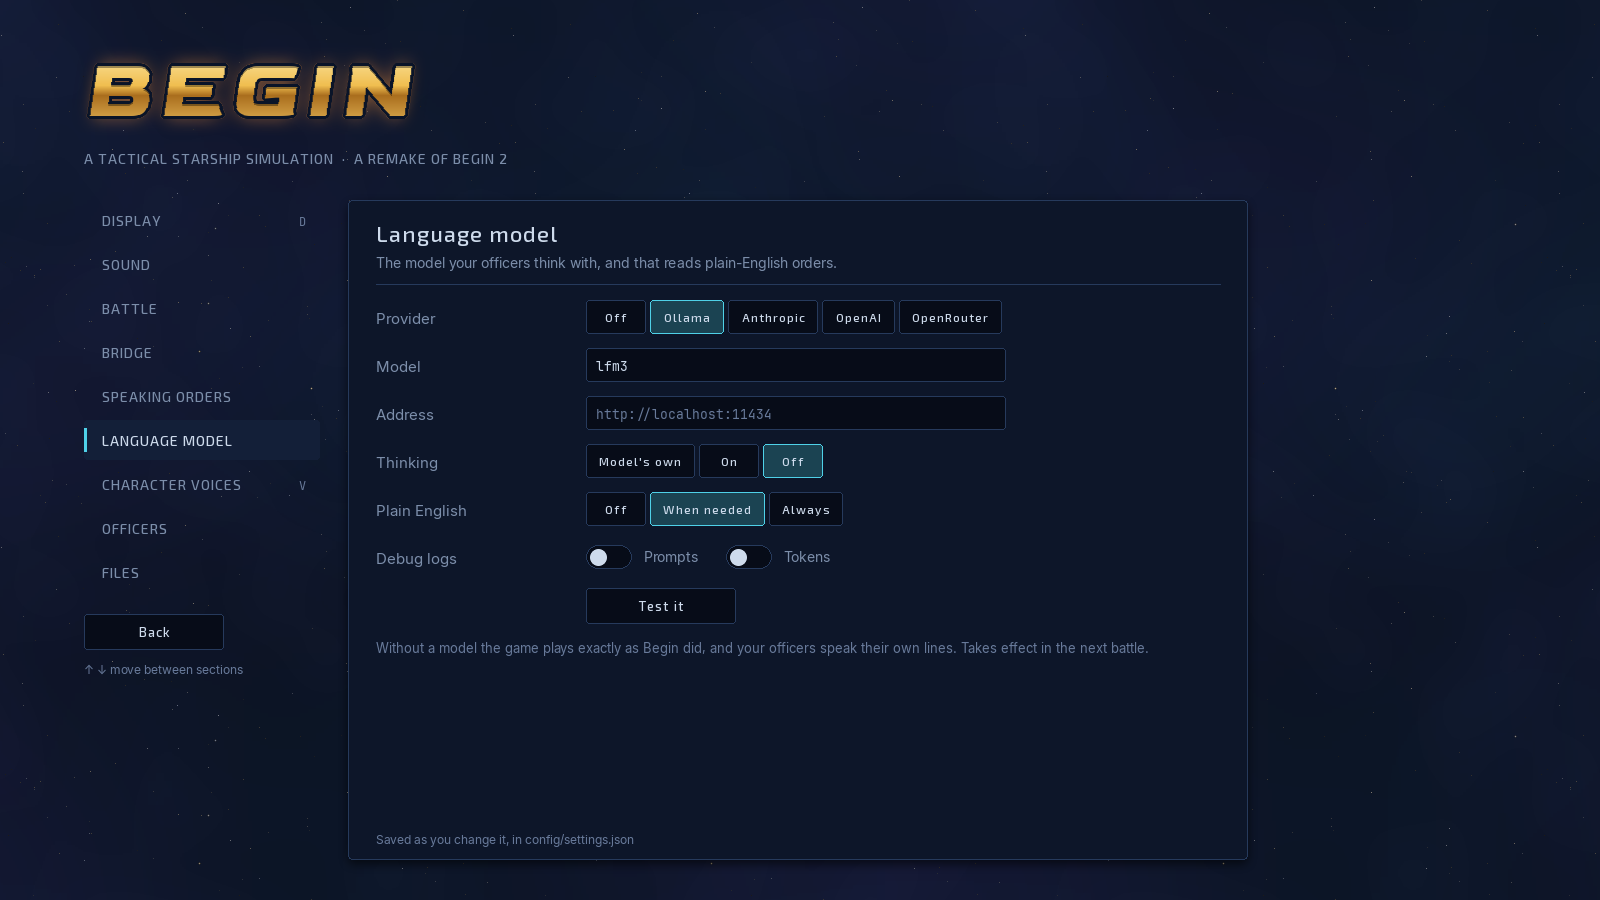
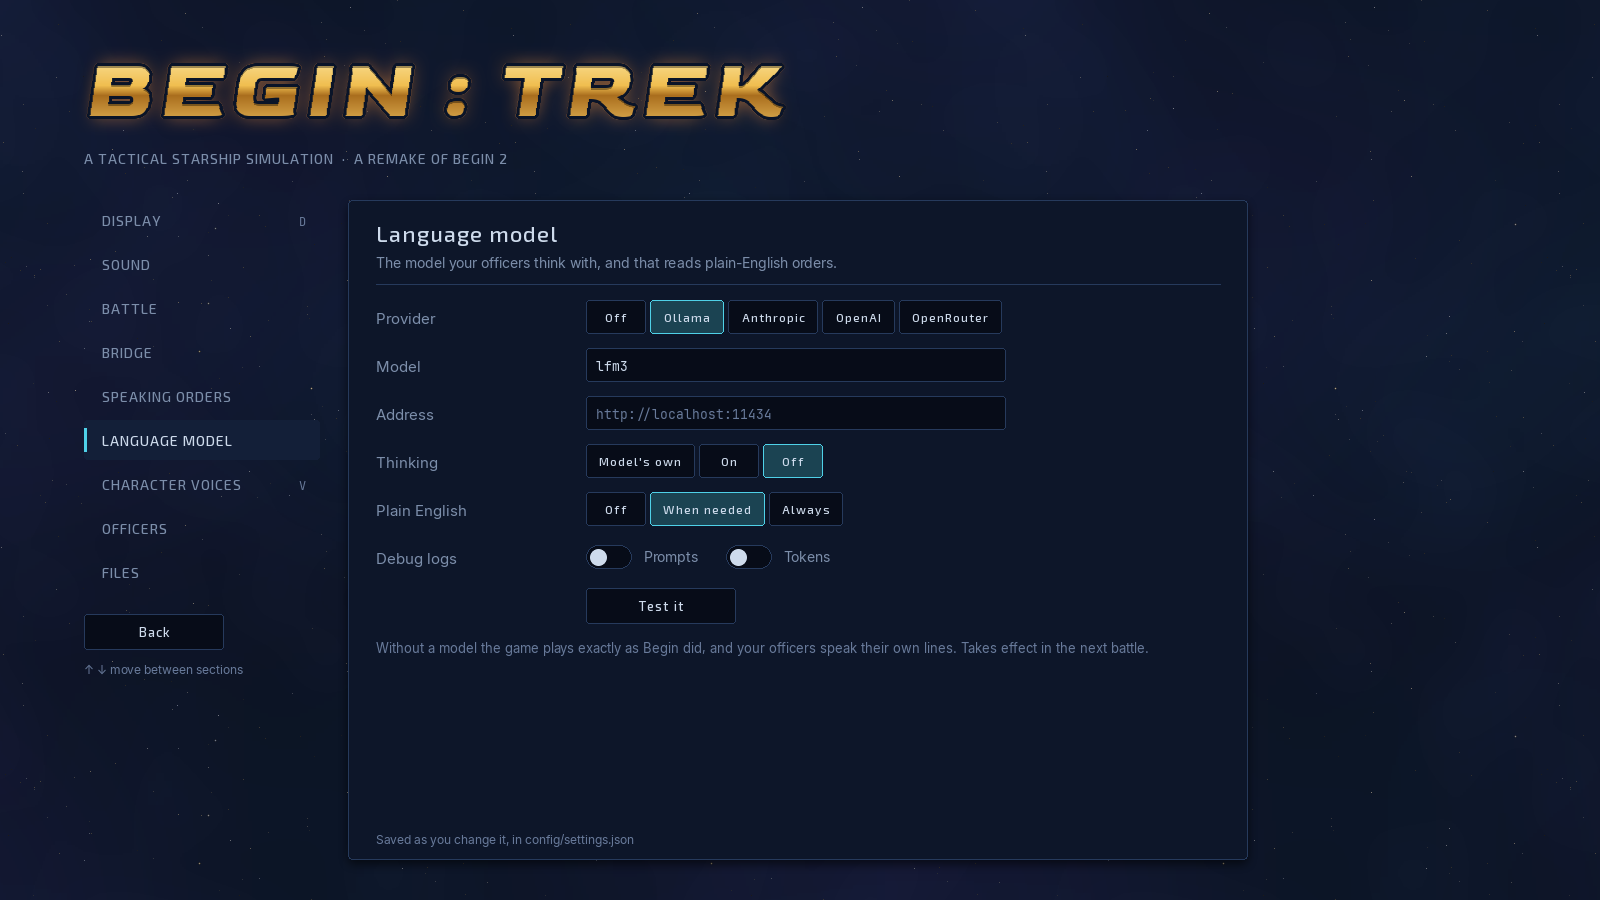
Title screen reads Begin : Trek; window caption, README and screenshots to match

Changed region(s): [[0.2812, 0.0622, 0.5, 0.1556]]

diff --git a/src/begin/ui/menu_scene.py b/src/begin/ui/menu_scene.py
@@ -26,6 +26,7 @@ from .widgets import UI
 FACTIONS = ["federation", "klingon", "romulan", "orion"]
 STAR_DRIFT = 900.0        # world units per second the menu's view drifts through the stars
 TITLE_SIZE = 84           # pixels: the gold title lettering
+TITLE = "BEGIN : TREK"     # the remake's name: Begin was the original game
 MENU_SOUND = 0.4          # × the player's volume: the menu's flybys are heard, quietly
 
 
@@ -210,7 +211,7 @@ class MenuScene:
         self.stars.draw(surf, surf.get_rect(), self.t * STAR_DRIFT, self.t * STAR_DRIFT * 0.18)
         if self.page == "main":
             self.flybys.draw(surf)
-        title = theme.title_art("BEGIN", TITLE_SIZE)
+        title = theme.title_art(TITLE, TITLE_SIZE)
         surf.blit(title, (80 - TITLE_SIZE // 3, 40 - TITLE_SIZE // 3))
         theme.text(surf, "A TACTICAL STARSHIP SIMULATION  ·  A REMAKE OF BEGIN 2", (84, 150), theme.TEXT_DIM, 14, "display")
         if self.page == "main":

diff --git a/src/begin/ui/present.py b/src/begin/ui/present.py
@@ -24,7 +24,7 @@ import pygame
 
 from . import gfx
 
-CAPTION = "Begin — tactical starship simulation"
+CAPTION = "Begin : Trek — tactical starship simulation"
 RENDERERS = ("auto", "gpu", "software")
 
 

diff --git a/packaging/RELEASE_NOTES.md b/packaging/RELEASE_NOTES.md
@@ -1,5 +1,7 @@
 ## What's new in 1.2
 
+**Begin : Trek.** The title screen now carries the remake's own name; Begin is the original game it remakes.
+
 **Settings in the game.** A Settings page on the main menu (S) changes everything you used to edit in the config folder: display, sound with a sample of each phaser and torpedo, the speed battles start at, the bridge style and its parts, speaking orders, the officers' language model and the character voice model (each with a Test button), and your officers' names, ranks, traits and how they speak. Each change is saved at once; in `officers.toml` only the line you change is written.
 
 **Command from the bridge.** Every order you give is read back by the officer at that station ("Course 090, warp 6."), and officers speak in subtitles low on the map, with the log split into Bridge and Computer columns. Right-click a ship (or press E) for a command wheel; while you type, the battle eases to a quarter speed, the map shows a ghost of what Enter would do, and Tab finishes names. Officers now and then propose an order (Y makes it so, N belays it). `alert red`, `yellow` and `green` give a set of orders at once, `record` saves what you just did as a named order, the new Orders tab holds them all as cards, and `style` promises a way of commanding for a ribbon. Each officer's trust in you grows across battles, from Green to Veteran, and changes what they will do. None of it replaces anything: keys, clicks and the console work as before, and `hud bridge classic` turns it all off.

diff --git a/README.md b/README.md
@@ -1,4 +1,4 @@
-# Begin (remake)
+# Begin : Trek
 
 ![The title screen: a Klingon battle cruiser decloaks and the Enterprise's torpedo bursts on its shields](docs/screenshots/title-klingon.png)
 
